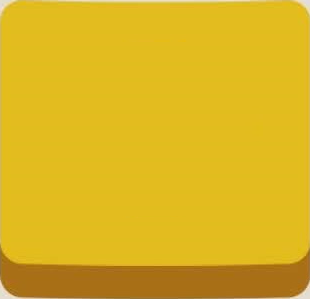
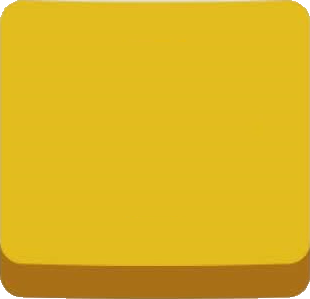
better popup

diff --git a/UiManger.py b/UiManger.py
@@ -474,6 +474,10 @@ class UiManger:
 		
 		self.SetUpShared()
 
+		piece = UiPiece([10, 360], [360, 360],
+			manger.LoadImage("Popup_BackGround"))
+		self.AddPiece(piece, False)
+
 		#button Grid
 		loop = 0
 		for y in range(3):
